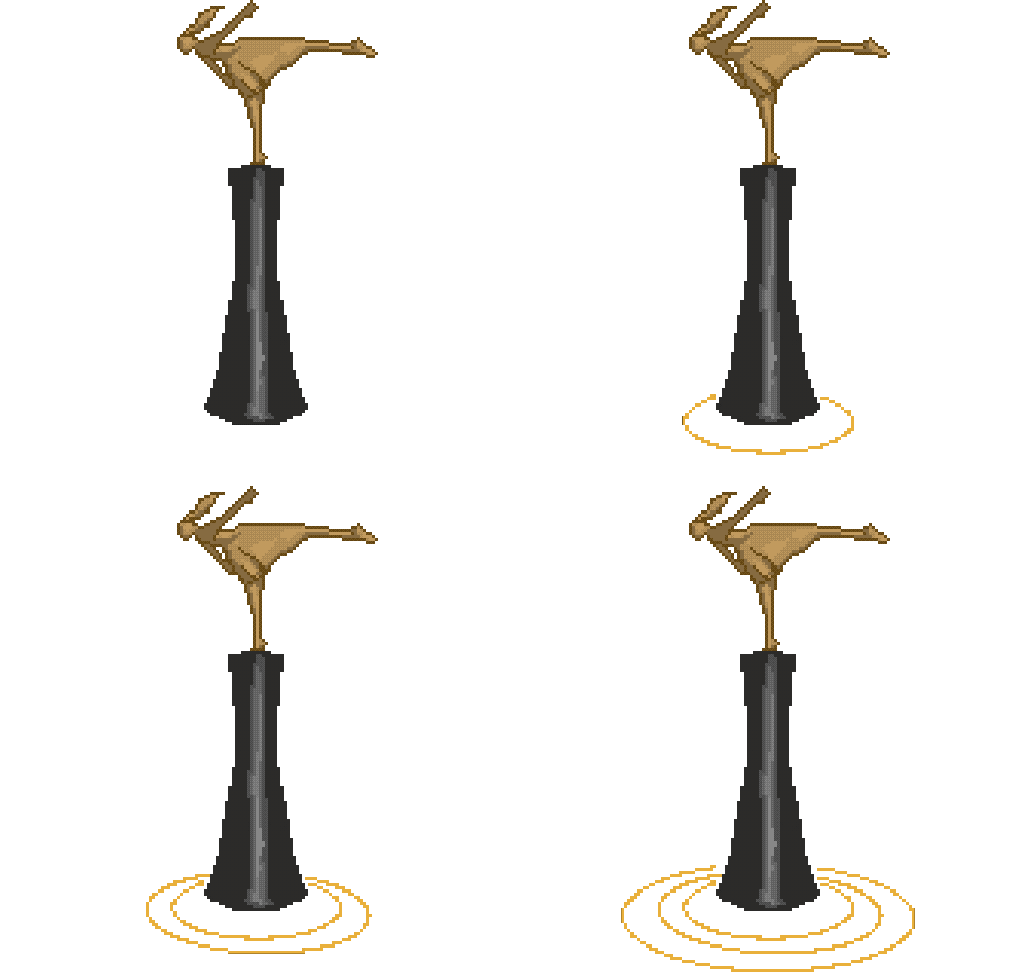
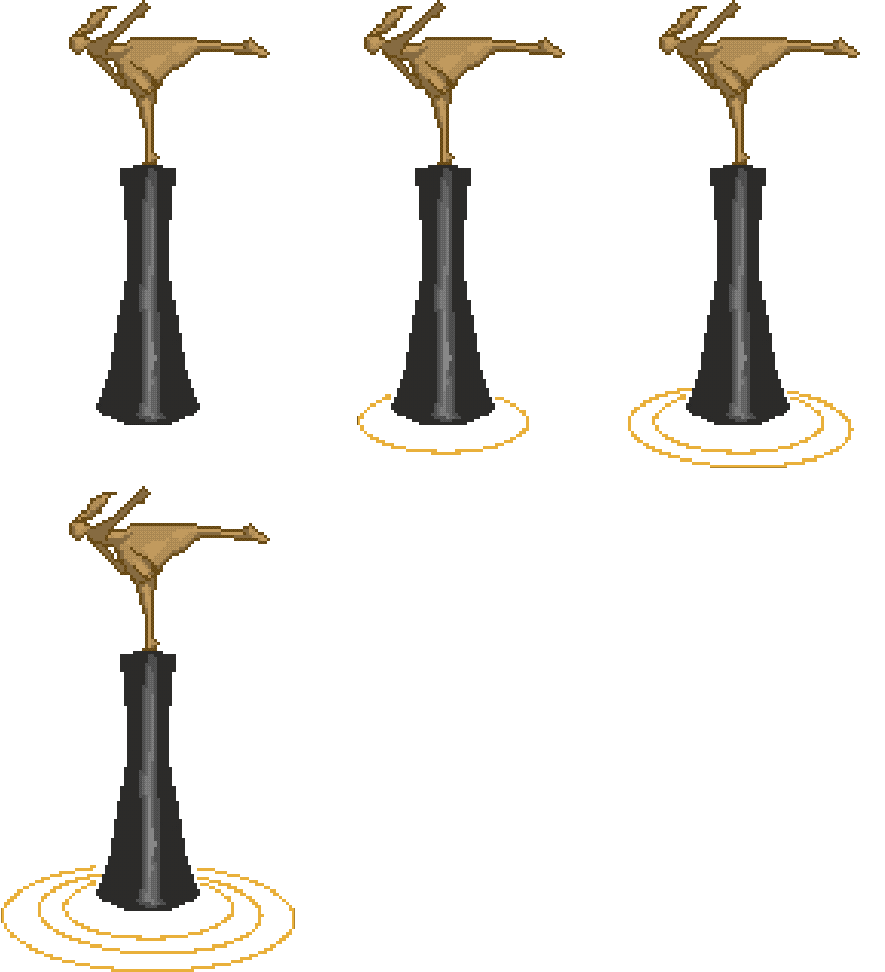
modified: statue size

diff --git a/game/main.js b/game/main.js
@@ -1,4 +1,5 @@
 import { contain, keyboard, hitTestRectangle, sceneLimit } from "/game/helperFunction.js";
+import{turnOnAnimate,turnOffAnimate} from "/game/animateState.js"
 
 let Application = PIXI.Application,
   Container = PIXI.Container,
@@ -28,10 +29,9 @@ mainCanvas.appendChild(app.view);
 loader
   .add("scene1", "./img/scene1.png")
   .add("scene2", "./img/scene2.png")
-  .add("player", "./img/player/player.png")
   .add("playerAnimate", "./img/player/playerAnimate.png")
-  .add("statue", "./img/statue/statue.png")
   .add("statueAnimate", "/img/statue/statueAnimate.png")
+  .add("templeAnimate", "/img/temple/templeAnimate.png")
   .add("blo2", "./img/blo2.png")
   .load(setUp);
 
@@ -40,24 +40,16 @@ function setUp() {
   app.stage.addChild(gameScene);
 
   scene1Container = new Container();
-  scene2Container = new Container();
-
   app.stage.addChild(scene1Container);
+
   scene1 = new Sprite(resources.scene1.texture);
   scene1.width = app.screen.width * 2;
   scene1.height = app.screen.height * 3;
   scene1Container.addChild(scene1);
 
-  createStatueSheet();
-  createStatue();
-  // statue = new Sprite(resources.statue.texture);
-  // statue.x = app.screen.width * 0.5 + 150;
-  // statue.y = app.screen.height * 0.5;
-  // statue.width = 512;
-  // statue.height = 486;
-  // scene1Container.addChild(statue);
-
+  scene2Container = new Container();
   app.stage.addChild(scene2Container);
+
   scene2 = new Sprite(resources.scene2.texture);
   scene2.width = app.screen.width * 4;
   scene2.height = app.screen.height * 4;
@@ -69,6 +61,9 @@ function setUp() {
   blo2.height = 32;
   scene2Container.addChild(blo2);
   scene2Container.visible = false;
+
+  createStatueSheet();
+  createStatue();
 
   createPlayerSheet();
   createPlayer();
@@ -140,13 +135,12 @@ function play(delta) {
 
   if (scene1Container.visible) {
     sceneLimit(player, playerContainer, scene1, scene1Container, app);
+    let space = keyboard(32);
+
     if (hitTestRectangle(player, statue)) {
-    
       if(!statue.playing){
         turnOnAnimate(statue, statueSheet.on);
       }
-
-      let space = keyboard(32);
       space.press = function () {
         scene1Container.visible = false;
         scene2Container.visible = true;
@@ -156,6 +150,8 @@ function play(delta) {
     }else{
       turnOffAnimate(statue, statueSheet.off);
     }
+
+
   }
 }
 
@@ -241,14 +237,14 @@ function createPlayer() {
 
 function createStatueSheet(){
   let ssheet = PIXI.Texture.from(resources.statueAnimate.texture);
-  let w = 512;
+  let w = 295;
   let h = 486;
 
   statueSheet["on"] = [
     new PIXI.Texture(ssheet, new PIXI.Rectangle(0 * w, 0 * h, w, h)),
     new PIXI.Texture(ssheet, new PIXI.Rectangle(1 * w, 0 * h, w, h)),
-    new PIXI.Texture(ssheet, new PIXI.Rectangle(0 * w, 1 * h, w, h)),
-    new PIXI.Texture(ssheet, new PIXI.Rectangle(1 * w, 1 * h, w ,h))
+    new PIXI.Texture(ssheet, new PIXI.Rectangle(2 * w, 0 * h, w, h)),
+    new PIXI.Texture(ssheet, new PIXI.Rectangle(0 * w, 1 * h, w ,h))
   ];
   statueSheet["off"] = [
     new PIXI.Texture(ssheet, new PIXI.Rectangle(0*w, 0*h, w, h))
@@ -257,22 +253,12 @@ function createStatueSheet(){
 function createStatue(){
   statue = new PIXI.extras.AnimatedSprite(statueSheet.off);
   statue.anchor.set(0.5, 0.5);
-  statue.animationSpeed = 0.3;
+  statue.animationSpeed = 0.1;
   statue.loop = false;
   statue.x = app.screen.width * 0.5 + 150;
   statue.y = app.screen.height * 0.5;
-  statue.width = 512;
+  statue.width = 295;
   statue.height = 486;
   scene1Container.addChild(statue);
   statue.play();
-}
-
-function turnOnAnimate(sprite, animateState) {
-  sprite.textures = animateState;
-  sprite.loop = true;
-  sprite.play();
-}
-function turnOffAnimate(sprite, animateState) {
-  sprite.loop = false;
-  sprite.textures = animateState;
 }

diff --git a/index.html b/index.html
@@ -7,6 +7,7 @@
     <meta name="viewport" content="width=device-width, initial-scale=1.0">
     <script src="https://cdnjs.cloudflare.com/ajax/libs/pixi.js/4.8.5/pixi.min.js"></script>
     <script type="module" src="/game/main.js"></script>
+    <script type="module" src="/game/animateState.js"></script>
     <link rel="stylesheet" href="./style.css">
     <title>Document</title>
 </head>

diff --git a/game/animateState.js b/game/animateState.js
@@ -1,0 +1,9 @@
+export function turnOnAnimate(sprite, animateState) {
+    sprite.textures = animateState;
+    sprite.loop = true;
+    sprite.play();
+}
+export function turnOffAnimate(sprite, animateState) {
+    sprite.loop = false;
+    sprite.textures = animateState;
+}
